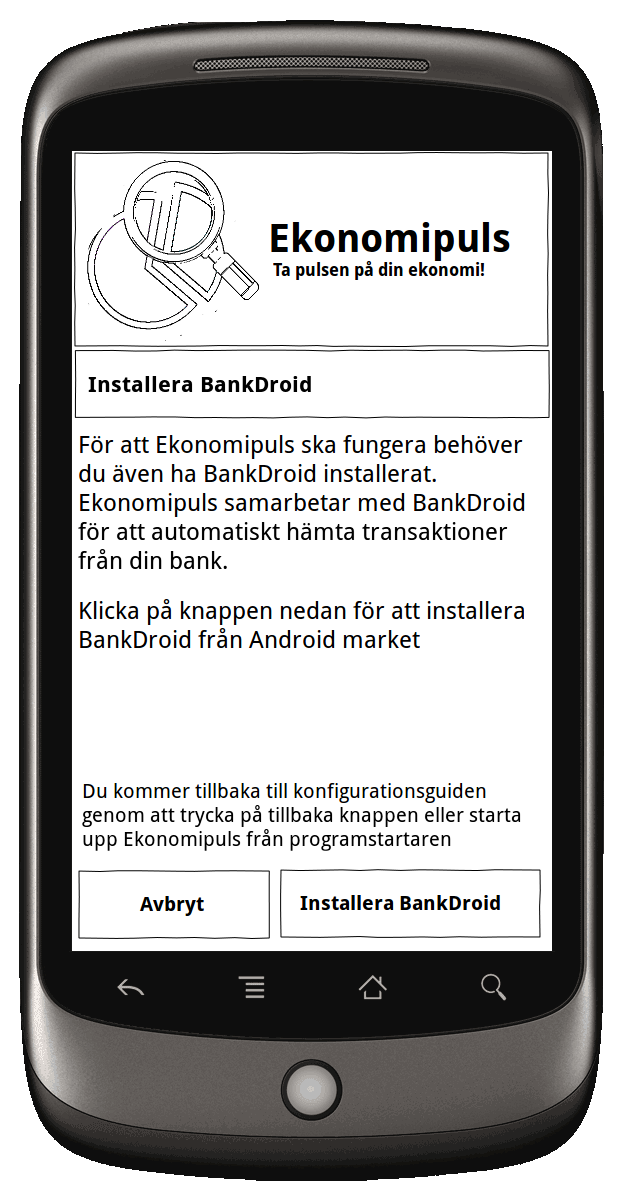
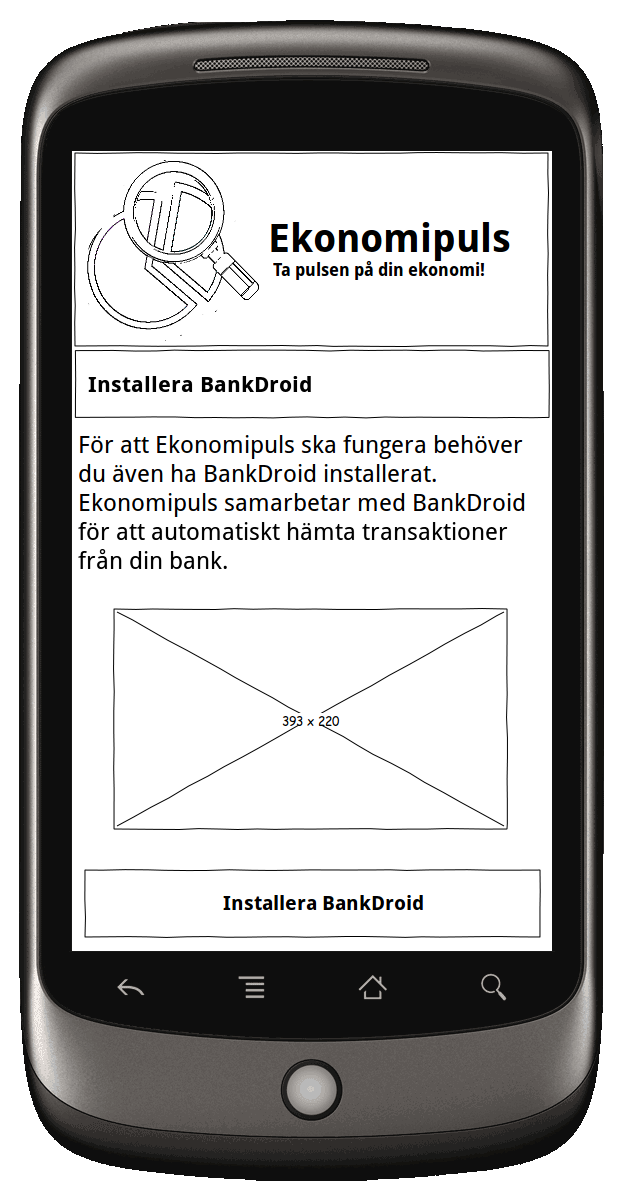
Updating mockup

diff --git a/mockup/index.html b/mockup/index.html
@@ -4,28 +4,38 @@
                     $('body').layout({ applyDefaultStyles: true,
                             minSize:140 });
                     });
-                </SCRIPT></head><body><div id="leftpanel" class="ui-layout-west"><div class="ThumbContainer"><a href="#wizard_install_bankdroid_page"><img src="pages/wizard_install_bankdroid.png" style="min-width: 100px;" /><hr /><span class="number">1/12</span> -
-                                    Wizard Install BankDroid</a></div><div class="ThumbContainer"><a href="#install_bankdroid_page"><img src="pages/install_bankdroid.png" style="min-width: 100px;" /><hr /><span class="number">2/12</span> -
-                                    Install BankDroid</a></div><div class="ThumbContainer"><a href="#wizard_pair_applications_page"><img src="pages/wizard_pair_applications.png" style="min-width: 100px;" /><hr /><span class="number">3/12</span> -
-                                    Wizard Pair Applications</a></div><div class="ThumbContainer"><a href="#pair_applications_page"><img src="pages/pair_applications.png" style="min-width: 100px;" /><hr /><span class="number">4/12</span> -
-                                    Pair Applications</a></div><div class="ThumbContainer"><a href="#wizard_add_bank_page"><img src="pages/wizard_add_bank.png" style="min-width: 100px;" /><hr /><span class="number">5/12</span> -
-                                    Wizard Add Bank</a></div><div class="ThumbContainer"><a href="#add_bank_page"><img src="pages/add_bank.png" style="min-width: 100px;" /><hr /><span class="number">6/12</span> -
-                                    Add Bank</a></div><div class="ThumbContainer"><a href="#wizard_pick_accounts_page"><img src="pages/wizard_pick_accounts.png" style="min-width: 100px;" /><hr /><span class="number">7/12</span> -
-                                    Wizard Pick Accounts</a></div><div class="ThumbContainer"><a href="#pick_accounts_page"><img src="pages/pick_accounts.png" style="min-width: 100px;" /><hr /><span class="number">8/12</span> -
-                                    Pick Accounts</a></div><div class="ThumbContainer"><a href="#wizard_initial_import_page"><img src="pages/wizard_initial_import.png" style="min-width: 100px;" /><hr /><span class="number">9/12</span> -
-                                    Wizard Initial Import</a></div><div class="ThumbContainer"><a href="#deduplicate_page"><img src="pages/deduplicate.png" style="min-width: 100px;" /><hr /><span class="number">10/12</span> -
-                                    Deduplicate</a></div><div class="ThumbContainer"><a href="#initial_import_page"><img src="pages/initial_import.png" style="min-width: 100px;" /><hr /><span class="number">11/12</span> -
-                                    Initial Import</a></div><div class="ThumbContainer"><a href="#initial_import_pick_tag_page"><img src="pages/initial_import_pick_tag.png" style="min-width: 100px;" /><hr /><span class="number">12/12</span> -
-                                    Initial Import Pick Tag</a></div></div><div id="main" class="ui-layout-center"><div class="Page" id="wizard_install_bankdroid_page"><div class="pageTitle">Wizard Install BankDroid<div class="MainNumber">
-                    Page 1/12</div></div><div class="ImageContainer"><img class="raster" style="max-width: 626px;" src="pages/wizard_install_bankdroid.png" usemap="#map_wizard_install_bankdroid" /></div><map name="map_wizard_install_bankdroid"><area shape="rect" coords="77,536,540,610" href="#install_bankdroid_page" title="Go to page 'Install BankDroid'" /></map></div><div class="Page" id="install_bankdroid_page"><div class="pageTitle">Install BankDroid<div class="MainNumber">
-                    Page 2/12</div></div><div class="ImageContainer"><img class="raster" style="max-width: 626px;" src="pages/install_bankdroid.png" usemap="#map_install_bankdroid" /></div><map name="map_install_bankdroid"><area shape="rect" coords="78,870,270,939" href="#wizard_install_bankdroid_page" title="Go to page 'Wizard Install BankDroid'" /><area shape="rect" coords="280,869,541,938" href="#wizard_pair_applications_page" title="Go to page 'Wizard Pair Applications'" /></map></div><div class="Page" id="wizard_pair_applications_page"><div class="pageTitle">Wizard Pair Applications<div class="MainNumber">
-                    Page 3/12</div></div><div class="ImageContainer"><img class="raster" style="max-width: 626px;" src="pages/wizard_pair_applications.png" usemap="#map_wizard_pair_applications" /></div><map name="map_wizard_pair_applications"><area shape="rect" coords="76,614,570.2000122070312,690" href="#pair_applications_page" title="Go to page 'Pair Applications'" /></map></div><div class="Page" id="pair_applications_page"><div class="pageTitle">Pair Applications<div class="MainNumber">
-                    Page 4/12</div></div><div class="ImageContainer"><img class="raster" style="max-width: 626px;" src="pages/pair_applications.png" usemap="#map_pair_applications" /></div><map name="map_pair_applications"><area shape="rect" coords="78,869,270,938" href="#wizard_pair_applications_page" title="Go to page 'Wizard Pair Applications'" /><area shape="rect" coords="280,869,541,938" href="#wizard_add_bank_page" title="Go to page 'Wizard Add Bank'" /></map></div><div class="Page" id="wizard_add_bank_page"><div class="pageTitle">Wizard Add Bank<div class="MainNumber">
-                    Page 5/12</div></div><div class="ImageContainer"><img class="raster" style="max-width: 626px;" src="pages/wizard_add_bank.png" usemap="#map_wizard_add_bank" /></div><map name="map_wizard_add_bank"><area shape="rect" coords="74,698,546.4166870117188,772" href="#add_bank_page" title="Go to page 'Add Bank'" /></map></div><div class="Page" id="add_bank_page"><div class="pageTitle">Add Bank<div class="MainNumber">
-                    Page 6/12</div></div><div class="ImageContainer"><img class="raster" style="max-width: 626px;" src="pages/add_bank.png" usemap="#map_add_bank" /></div><map name="map_add_bank"><area shape="rect" coords="78,869,270,938" href="#wizard_add_bank_page" title="Go to page 'Wizard Add Bank'" /><area shape="rect" coords="280,869,541,938" href="#wizard_pick_accounts_page" title="Go to page 'Wizard Pick Accounts'" /></map></div><div class="Page" id="wizard_pick_accounts_page"><div class="pageTitle">Wizard Pick Accounts<div class="MainNumber">
-                    Page 7/12</div></div><div class="ImageContainer"><img class="raster" style="max-width: 626px;" src="pages/wizard_pick_accounts.png" usemap="#map_wizard_pick_accounts" /></div><map name="map_wizard_pick_accounts"><area shape="rect" coords="73,778,545.4166870117188,852" href="#pick_accounts_page" title="Go to page 'Pick Accounts'" /></map></div><div class="Page" id="pick_accounts_page"><div class="pageTitle">Pick Accounts<div class="MainNumber">
-                    Page 8/12</div></div><div class="ImageContainer"><img class="raster" style="max-width: 626px;" src="pages/pick_accounts.png" usemap="#map_pick_accounts" /></div><map name="map_pick_accounts"><area shape="rect" coords="78,869,312,938" href="#wizard_pick_accounts_page" title="Go to page 'Wizard Pick Accounts'" /><area shape="rect" coords="316,869,541,938" href="#wizard_initial_import_page" title="Go to page 'Wizard Initial Import'" /></map></div><div class="Page" id="wizard_initial_import_page"><div class="pageTitle">Wizard Initial Import<div class="MainNumber">
-                    Page 9/12</div></div><div class="ImageContainer"><img class="raster" style="max-width: 626px;" src="pages/wizard_initial_import.png" usemap="#map_wizard_initial_import" /></div><map name="map_wizard_initial_import"><area shape="rect" coords="73,864,545.4166870117188,938" href="#deduplicate_page" title="Go to page 'Deduplicate'" /></map></div><div class="Page" id="deduplicate_page"><div class="pageTitle">Deduplicate<div class="MainNumber">
-                    Page 10/12</div></div><div class="ImageContainer"><img class="raster" style="max-width: 626px;" src="pages/deduplicate.png" usemap="#map_deduplicate" /></div><map name="map_deduplicate"><area shape="rect" coords="80,877,539,946" href="#initial_import_page" title="Go to page 'Initial Import'" /></map></div><div class="Page" id="initial_import_page"><div class="pageTitle">Initial Import<div class="MainNumber">
-                    Page 11/12</div></div><div class="ImageContainer"><img class="raster" style="max-width: 626px;" src="pages/initial_import.png" usemap="#map_initial_import" /></div><map name="map_initial_import"><area shape="rect" coords="350,522,528,583" href="#initial_import_pick_tag_page" title="Go to page 'Initial Import Pick Tag'" /></map></div><div class="Page" id="initial_import_pick_tag_page"><div class="pageTitle">Initial Import Pick Tag<div class="MainNumber">
-                    Page 12/12</div></div><div class="ImageContainer"><img class="raster" style="max-width: 626px;" src="pages/initial_import_pick_tag.png" usemap="#map_initial_import_pick_tag" /></div><map name="map_initial_import_pick_tag"><area shape="rect" coords="107,838,299,900" href="#initial_import_page" title="Go to page 'Initial Import'" /></map></div></div></body></html>
+                </SCRIPT></head><body><div id="leftpanel" class="ui-layout-west"><div class="ThumbContainer"><a href="#wizard_install_bankdroid_page"><img src="pages/wizard_install_bankdroid.png" style="min-width: 100px;" /><hr /><span class="number">1/17</span> -
+                                    Wizard Install BankDroid</a></div><div class="ThumbContainer"><a href="#install_bankdroid_page"><img src="pages/install_bankdroid.png" style="min-width: 100px;" /><hr /><span class="number">2/17</span> -
+                                    Install BankDroid</a></div><div class="ThumbContainer"><a href="#wizard_pair_applications_page"><img src="pages/wizard_pair_applications.png" style="min-width: 100px;" /><hr /><span class="number">3/17</span> -
+                                    Wizard Pair Applications</a></div><div class="ThumbContainer"><a href="#pair_applications_page"><img src="pages/pair_applications.png" style="min-width: 100px;" /><hr /><span class="number">4/17</span> -
+                                    Pair Applications</a></div><div class="ThumbContainer"><a href="#wizard_add_bank_page"><img src="pages/wizard_add_bank.png" style="min-width: 100px;" /><hr /><span class="number">5/17</span> -
+                                    Wizard Add Bank</a></div><div class="ThumbContainer"><a href="#add_bank_page"><img src="pages/add_bank.png" style="min-width: 100px;" /><hr /><span class="number">6/17</span> -
+                                    Add Bank</a></div><div class="ThumbContainer"><a href="#wizard_pick_accounts_page"><img src="pages/wizard_pick_accounts.png" style="min-width: 100px;" /><hr /><span class="number">7/17</span> -
+                                    Wizard Pick Accounts</a></div><div class="ThumbContainer"><a href="#pick_accounts_page"><img src="pages/pick_accounts.png" style="min-width: 100px;" /><hr /><span class="number">8/17</span> -
+                                    Pick Accounts</a></div><div class="ThumbContainer"><a href="#wizard_initial_import_page"><img src="pages/wizard_initial_import.png" style="min-width: 100px;" /><hr /><span class="number">9/17</span> -
+                                    Wizard Initial Import</a></div><div class="ThumbContainer"><a href="#deduplicate_page"><img src="pages/deduplicate.png" style="min-width: 100px;" /><hr /><span class="number">10/17</span> -
+                                    Deduplicate</a></div><div class="ThumbContainer"><a href="#initial_import_page"><img src="pages/initial_import.png" style="min-width: 100px;" /><hr /><span class="number">11/17</span> -
+                                    Initial Import</a></div><div class="ThumbContainer"><a href="#initial_import_pick_tag_1_page"><img src="pages/initial_import_pick_tag_1.png" style="min-width: 100px;" /><hr /><span class="number">12/17</span> -
+                                    Initial Import Pick Tag 1</a></div><div class="ThumbContainer"><a href="#split_amount_page"><img src="pages/split_amount.png" style="min-width: 100px;" /><hr /><span class="number">13/17</span> -
+                                    Split Amount</a></div><div class="ThumbContainer"><a href="#initial_import_pick_tag_2_page"><img src="pages/initial_import_pick_tag_2.png" style="min-width: 100px;" /><hr /><span class="number">14/17</span> -
+                                    Initial Import Pick Tag 2</a></div><div class="ThumbContainer"><a href="#initial_import_w_tags_page"><img src="pages/initial_import_w_tags.png" style="min-width: 100px;" /><hr /><span class="number">15/17</span> -
+                                    Initial Import w/ Tags</a></div><div class="ThumbContainer"><a href="#report_view_overview_page"><img src="pages/report_view_overview.png" style="min-width: 100px;" /><hr /><span class="number">16/17</span> -
+                                    Report View Overview</a></div><div class="ThumbContainer"><a href="#report_view_overview_category_details_page"><img src="pages/report_view_overview_category_details.png" style="min-width: 100px;" /><hr /><span class="number">17/17</span> -
+                                    Report View Overview - Category Details</a></div></div><div id="main" class="ui-layout-center"><div class="Page" id="wizard_install_bankdroid_page"><div class="pageTitle">Wizard Install BankDroid<div class="MainNumber">
+                    Page 1/17</div></div><div class="ImageContainer"><img class="raster" style="max-width: 626px;" src="pages/wizard_install_bankdroid.png" usemap="#map_wizard_install_bankdroid" /></div><map name="map_wizard_install_bankdroid"><area shape="rect" coords="77,536,540,610" href="#install_bankdroid_page" title="Go to page 'Install BankDroid'" /></map></div><div class="Page" id="install_bankdroid_page"><div class="pageTitle">Install BankDroid<div class="MainNumber">
+                    Page 2/17</div></div><div class="ImageContainer"><img class="raster" style="max-width: 626px;" src="pages/install_bankdroid.png" usemap="#map_install_bankdroid" /></div><map name="map_install_bankdroid"><area shape="rect" coords="84,869,541,938" href="#wizard_pair_applications_page" title="Go to page 'Wizard Pair Applications'" /></map></div><div class="Page" id="wizard_pair_applications_page"><div class="pageTitle">Wizard Pair Applications<div class="MainNumber">
+                    Page 3/17</div></div><div class="ImageContainer"><img class="raster" style="max-width: 626px;" src="pages/wizard_pair_applications.png" usemap="#map_wizard_pair_applications" /></div><map name="map_wizard_pair_applications"><area shape="rect" coords="76,614,570.2000122070312,690" href="#pair_applications_page" title="Go to page 'Pair Applications'" /></map></div><div class="Page" id="pair_applications_page"><div class="pageTitle">Pair Applications<div class="MainNumber">
+                    Page 4/17</div></div><div class="ImageContainer"><img class="raster" style="max-width: 626px;" src="pages/pair_applications.png" usemap="#map_pair_applications" /></div><map name="map_pair_applications"><area shape="rect" coords="91,869,541,938" href="#wizard_add_bank_page" title="Go to page 'Wizard Add Bank'" /></map></div><div class="Page" id="wizard_add_bank_page"><div class="pageTitle">Wizard Add Bank<div class="MainNumber">
+                    Page 5/17</div></div><div class="ImageContainer"><img class="raster" style="max-width: 626px;" src="pages/wizard_add_bank.png" usemap="#map_wizard_add_bank" /></div><map name="map_wizard_add_bank"><area shape="rect" coords="74,698,546.4166870117188,772" href="#add_bank_page" title="Go to page 'Add Bank'" /></map></div><div class="Page" id="add_bank_page"><div class="pageTitle">Add Bank<div class="MainNumber">
+                    Page 6/17</div></div><div class="ImageContainer"><img class="raster" style="max-width: 626px;" src="pages/add_bank.png" usemap="#map_add_bank" /></div><map name="map_add_bank"><area shape="rect" coords="88,869,541,938" href="#wizard_pick_accounts_page" title="Go to page 'Wizard Pick Accounts'" /></map></div><div class="Page" id="wizard_pick_accounts_page"><div class="pageTitle">Wizard Pick Accounts<div class="MainNumber">
+                    Page 7/17</div></div><div class="ImageContainer"><img class="raster" style="max-width: 626px;" src="pages/wizard_pick_accounts.png" usemap="#map_wizard_pick_accounts" /></div><map name="map_wizard_pick_accounts"><area shape="rect" coords="73,778,545.4166870117188,852" href="#pick_accounts_page" title="Go to page 'Pick Accounts'" /></map></div><div class="Page" id="pick_accounts_page"><div class="pageTitle">Pick Accounts<div class="MainNumber">
+                    Page 8/17</div></div><div class="ImageContainer"><img class="raster" style="max-width: 626px;" src="pages/pick_accounts.png" usemap="#map_pick_accounts" /></div><map name="map_pick_accounts"><area shape="rect" coords="87,869,541,938" href="#wizard_initial_import_page" title="Go to page 'Wizard Initial Import'" /></map></div><div class="Page" id="wizard_initial_import_page"><div class="pageTitle">Wizard Initial Import<div class="MainNumber">
+                    Page 9/17</div></div><div class="ImageContainer"><img class="raster" style="max-width: 626px;" src="pages/wizard_initial_import.png" usemap="#map_wizard_initial_import" /></div><map name="map_wizard_initial_import"><area shape="rect" coords="73,864,545.4166870117188,938" href="#deduplicate_page" title="Go to page 'Deduplicate'" /></map></div><div class="Page" id="deduplicate_page"><div class="pageTitle">Deduplicate<div class="MainNumber">
+                    Page 10/17</div></div><div class="ImageContainer"><img class="raster" style="max-width: 626px;" src="pages/deduplicate.png" usemap="#map_deduplicate" /></div><map name="map_deduplicate"><area shape="rect" coords="80,877,539,946" href="#initial_import_page" title="Go to page 'Initial Import'" /></map></div><div class="Page" id="initial_import_page"><div class="pageTitle">Initial Import<div class="MainNumber">
+                    Page 11/17</div></div><div class="ImageContainer"><img class="raster" style="max-width: 626px;" src="pages/initial_import.png" usemap="#map_initial_import" /></div><map name="map_initial_import"><area shape="rect" coords="463,405,533,466" href="#initial_import_pick_tag_1_page" title="Go to page 'Initial Import Pick Tag 1'" /><area shape="rect" coords="76,876,548,945" href="#report_view_overview_page" title="Go to page 'Report View Overview'" /></map></div><div class="Page" id="initial_import_pick_tag_1_page"><div class="pageTitle">Initial Import Pick Tag 1<div class="MainNumber">
+                    Page 12/17</div></div><div class="ImageContainer"><img class="raster" style="max-width: 626px;" src="pages/initial_import_pick_tag_1.png" usemap="#map_initial_import_pick_tag_1" /></div><map name="map_initial_import_pick_tag_1"><area shape="rect" coords="96,825,302,912" href="#split_amount_page" title="Go to page 'Split Amount'" /><area shape="rect" coords="307,838,525,900" href="#initial_import_page" title="Go to page 'Initial Import'" /></map></div><div class="Page" id="split_amount_page"><div class="pageTitle">Split Amount<div class="MainNumber">
+                    Page 13/17</div></div><div class="ImageContainer"><img class="raster" style="max-width: 626px;" src="pages/split_amount.png" usemap="#map_split_amount" /></div><map name="map_split_amount"><area shape="rect" coords="108,509,523,571" href="#initial_import_pick_tag_2_page" title="Go to page 'Initial Import Pick Tag 2'" /></map></div><div class="Page" id="initial_import_pick_tag_2_page"><div class="pageTitle">Initial Import Pick Tag 2<div class="MainNumber">
+                    Page 14/17</div></div><div class="ImageContainer"><img class="raster" style="max-width: 626px;" src="pages/initial_import_pick_tag_2.png" usemap="#map_initial_import_pick_tag_2" /></div><map name="map_initial_import_pick_tag_2"><area shape="rect" coords="96,825,302,912" href="#split_amount_page" title="Go to page 'Split Amount'" /><area shape="rect" coords="307,838,525,900" href="#initial_import_w_tags_page" title="Go to page 'Initial Import w/ Tags'" /></map></div><div class="Page" id="initial_import_w_tags_page"><div class="pageTitle">Initial Import w/ Tags<div class="MainNumber">
+                    Page 15/17</div></div><div class="ImageContainer"><img class="raster" style="max-width: 626px;" src="pages/initial_import_w_tags.png" usemap="#map_initial_import_w_tags" /></div><map name="map_initial_import_w_tags"><area shape="rect" coords="463,405,533,466" href="#initial_import_pick_tag_1_page" title="Go to page 'Initial Import Pick Tag 1'" /><area shape="rect" coords="76,876,548,945" href="#report_view_overview_page" title="Go to page 'Report View Overview'" /></map></div><div class="Page" id="report_view_overview_page"><div class="pageTitle">Report View Overview<div class="MainNumber">
+                    Page 16/17</div></div><div class="ImageContainer"><img class="raster" style="max-width: 626px;" src="pages/report_view_overview.png" usemap="#map_report_view_overview" /></div><map name="map_report_view_overview"><area shape="rect" coords="64,667,533,741" href="#report_view_overview_category_details_page" title="Go to page 'Report View Overview - Category Details'" /><area shape="rect" coords="92,274,512,669" href="#report_view_overview_category_details_page" title="Go to page 'Report View Overview - Category Details'" /></map></div><div class="Page" id="report_view_overview_category_details_page"><div class="pageTitle">Report View Overview - Category Details<div class="MainNumber">
+                    Page 17/17</div></div><div class="ImageContainer"><img class="raster" style="max-width: 626px;" src="pages/report_view_overview_category_details.png" usemap="#map_report_view_overview_category_details" /></div><map name="map_report_view_overview_category_details"></map></div></div></body></html>
